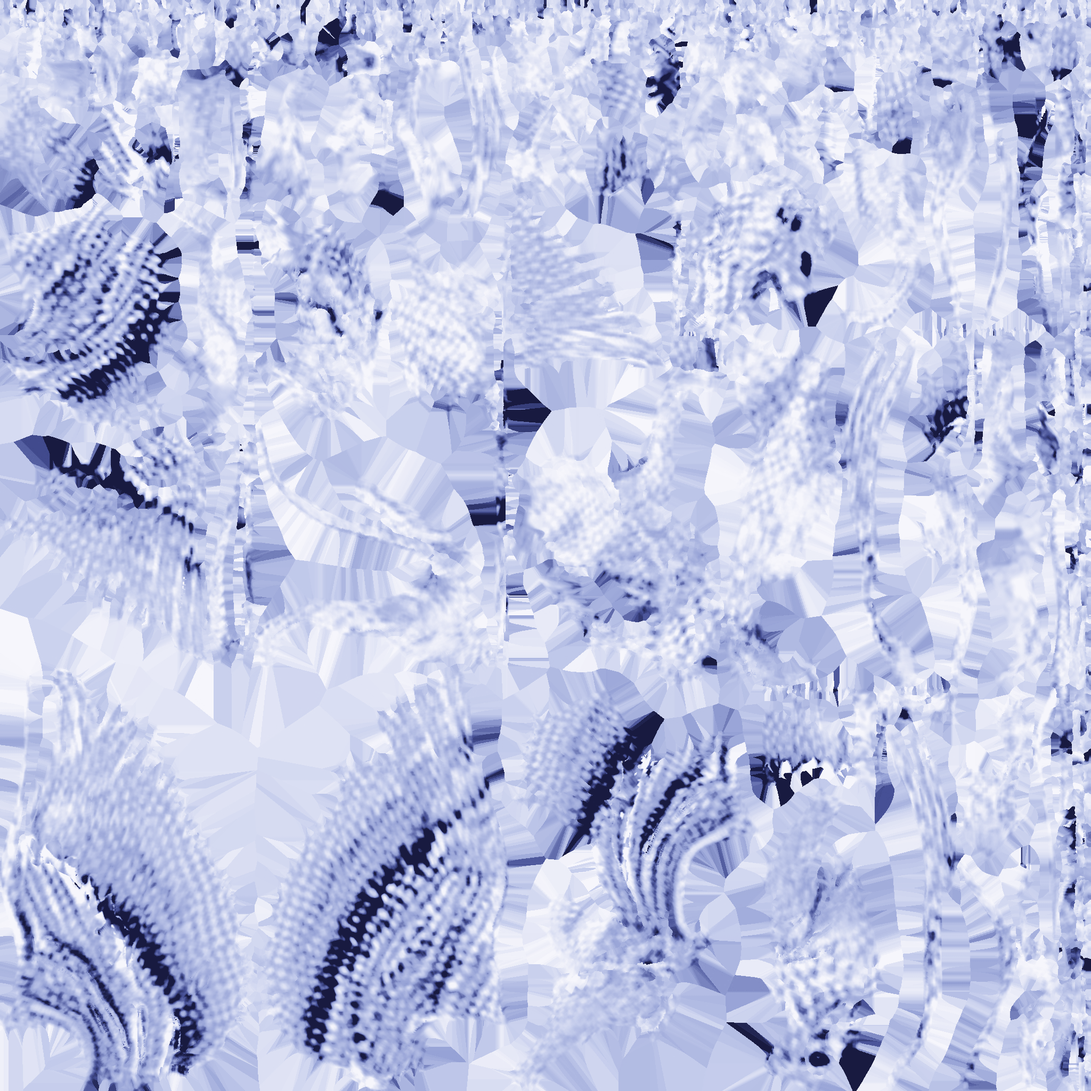
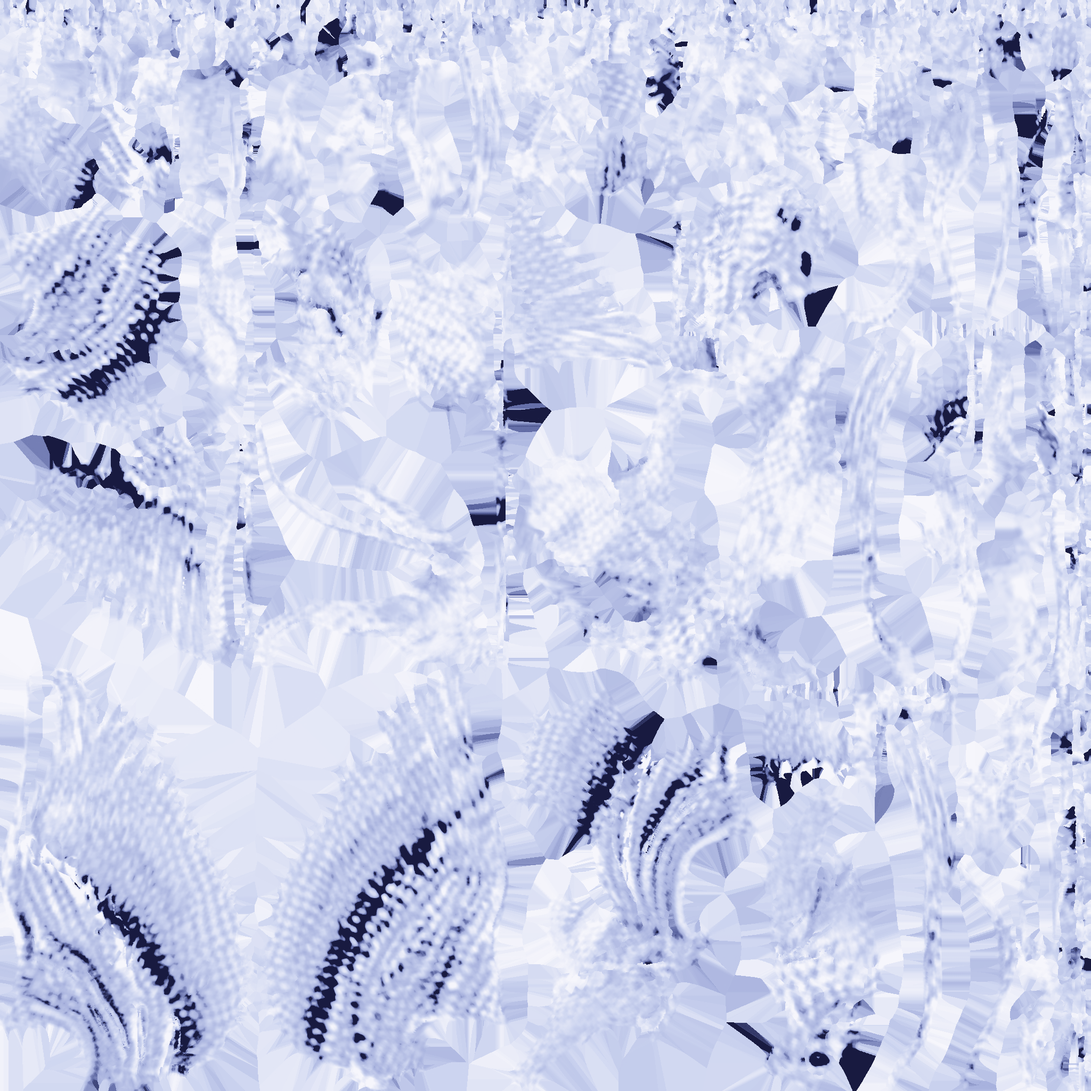
Creatures close-1022 c2 candidates (OFF): deeper value gamma + soft rim, Mirejaw lift row; Solmane/Pebbik shiny ramps r3

diff --git a/assets/creatures/tetherbound/solmane/source/shiny_gradient_map.py b/assets/creatures/tetherbound/solmane/source/shiny_gradient_map.py
@@ -17,9 +17,9 @@ RAMPS = {
     # (r2: the r1 full-range ramp turned the feather texture into busy blue-and-white
     # noise; the body now spans silver to pale lavender and only the darkest marks,
     # eyes and nose, reach indigo.)
-    'solmane': [(0.0, (24, 26, 64)), (0.12, (70, 80, 150)), (0.3, (150, 162, 214)), (0.65, (196, 204, 236)), (1.0, (246, 246, 252))],
+    'solmane': [(0.0, (24, 26, 64)), (0.06, (90, 100, 160)), (0.2, (168, 178, 222)), (0.6, (204, 212, 240)), (1.0, (246, 246, 252))],
     # mint quartz: the warm fur goes deep teal -> jade -> mint -> pale cream ...
-    'pebbik': [(0.0, (14, 34, 40)), (0.35, (34, 104, 104)), (0.62, (96, 182, 160)), (0.85, (200, 236, 214)), (1.0, (250, 248, 236))],
+    'pebbik': [(0.0, (14, 34, 40)), (0.12, (60, 140, 130)), (0.45, (130, 200, 180)), (0.8, (206, 238, 222)), (1.0, (250, 248, 236))],
 }
 # ... and its blue stone plates take a second ramp (gold quartz), so the two-tone
 # design survives as two clean blocks instead of collapsing into one value map.
